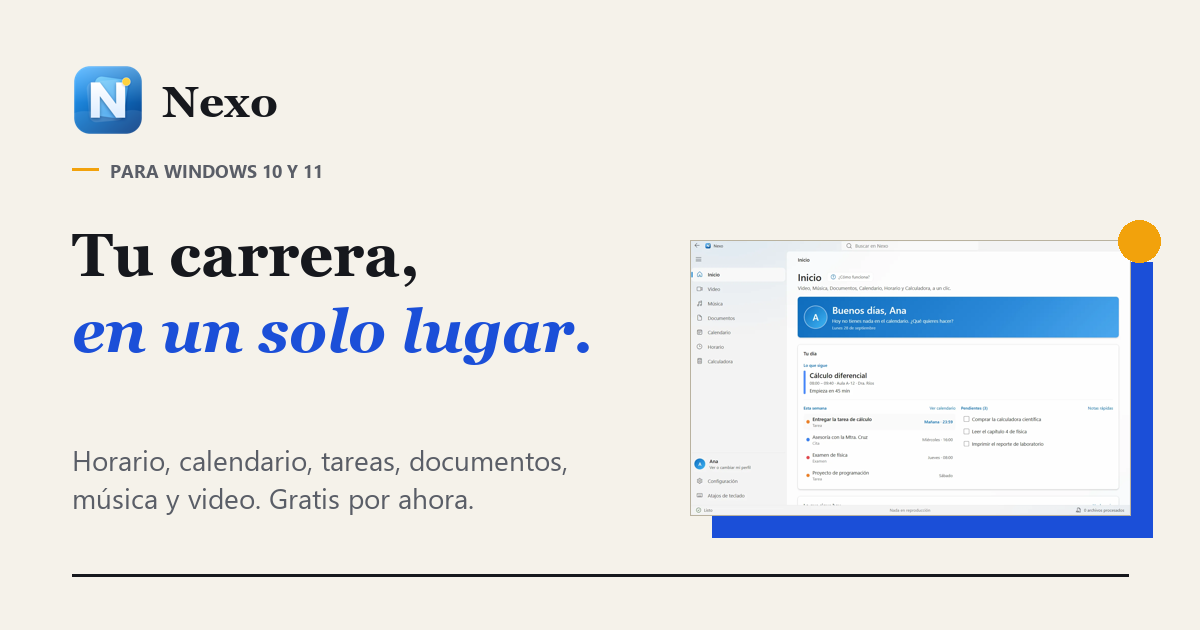
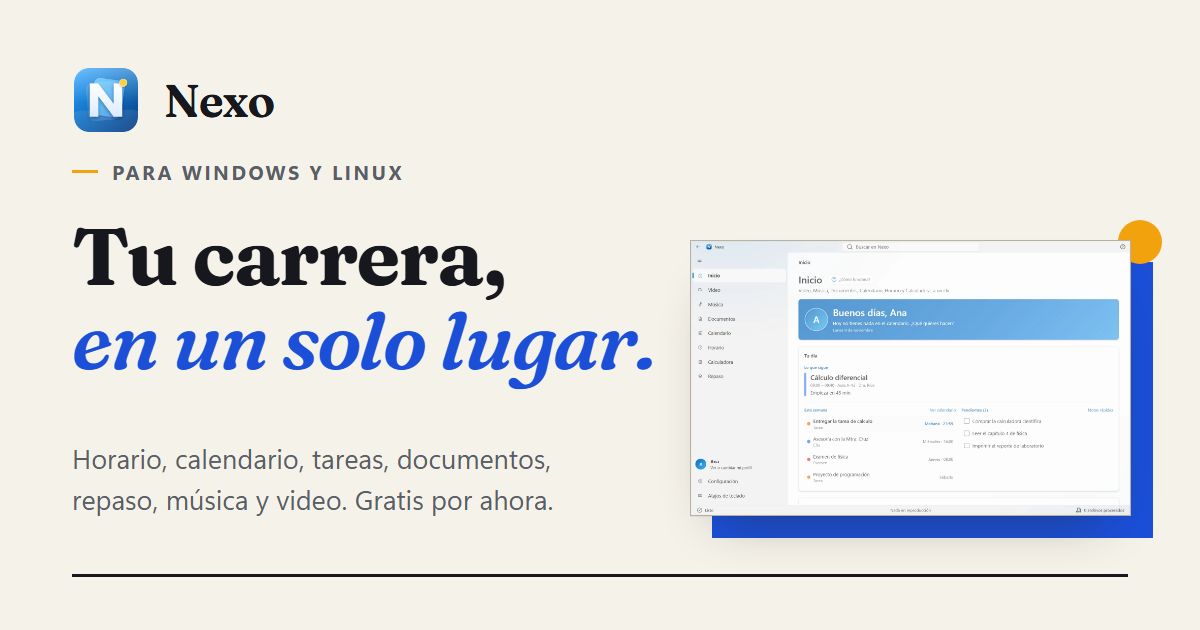
Imagen para compartir el enlace: Windows y Linux, Repaso en el menú, y herramienta para rehacerla

diff --git a/tools/og.html b/tools/og.html
@@ -1,0 +1,36 @@
+<!doctype html>
+<html lang="es">
+<head>
+<meta charset="utf-8">
+<title>Imagen para compartir el enlace (1200 × 630)</title>
+<style>
+  @font-face { font-family: "Fraunces"; src: url("../assets/fuentes/fraunces-latin-wght-normal.woff2") format("woff2"); font-weight: 100 900; font-style: normal; }
+  @font-face { font-family: "Fraunces"; src: url("../assets/fuentes/fraunces-latin-wght-italic.woff2") format("woff2"); font-weight: 100 900; font-style: italic; }
+  * { box-sizing: border-box; margin: 0; }
+  body { width: 1200px; height: 630px; position: relative; overflow: hidden; background: #f5f2ea; color: #16181d; font-family: "Segoe UI Variable Text", "Segoe UI", system-ui, sans-serif; }
+  .marca { position: absolute; left: 72px; top: 66px; display: flex; align-items: center; gap: 24px; }
+  .marca img { width: 68px; height: 68px; border-radius: 14px; }
+  .marca span { font-family: "Fraunces", Georgia, serif; font-weight: 650; font-size: 46px; letter-spacing: -0.02em; }
+  .etiqueta { position: absolute; left: 72px; top: 158px; display: flex; align-items: center; gap: 14px; font-size: 20px; font-weight: 700; letter-spacing: 0.12em; text-transform: uppercase; color: #5a5e67; }
+  .etiqueta::before { content: ""; width: 26px; height: 3px; background: #f2a20c; }
+  h1 { position: absolute; left: 72px; top: 214px; font-family: "Fraunces", Georgia, serif; font-weight: 700; font-size: 80px; line-height: 1.05; letter-spacing: -0.02em; }
+  h1 em { display: block; font-style: italic; font-weight: 600; color: #1b4fd8; }
+  .texto { position: absolute; left: 72px; top: 438px; width: 560px; font-size: 27px; line-height: 1.5; color: #5a5e67; }
+  .regla { position: absolute; left: 72px; right: 72px; top: 574px; height: 3px; background: #16181d; }
+  .bloque { position: absolute; left: 712px; top: 262px; width: 441px; height: 276px; background: #1b4fd8; }
+  .circulo { position: absolute; left: 1118px; top: 220px; width: 44px; height: 44px; border-radius: 50%; background: #f2a20c; }
+  .captura { position: absolute; left: 690px; top: 240px; width: 441px; height: 276px; border: 1px solid #b9b29f; background: #fbf9f4; overflow: hidden; box-shadow: 0 1px 0 rgba(22, 24, 29, 0.06), 0 28px 50px -30px rgba(40, 34, 10, 0.45); }
+  .captura img { display: block; width: 100%; height: 100%; object-fit: cover; object-position: top left; }
+</style>
+</head>
+<body>
+  <div class="marca"><img src="../assets/icono/nexo-512.png" alt=""><span>Nexo</span></div>
+  <div class="etiqueta">Para Windows y Linux</div>
+  <h1>Tu carrera,<em>en un solo lugar.</em></h1>
+  <p class="texto">Horario, calendario, tareas, documentos, repaso, música y video. Gratis por ahora.</p>
+  <div class="regla"></div>
+  <div class="bloque"></div>
+  <div class="circulo"></div>
+  <div class="captura"><img src="../assets/capturas/inicio-claro.webp" alt=""></div>
+</body>
+</html>
